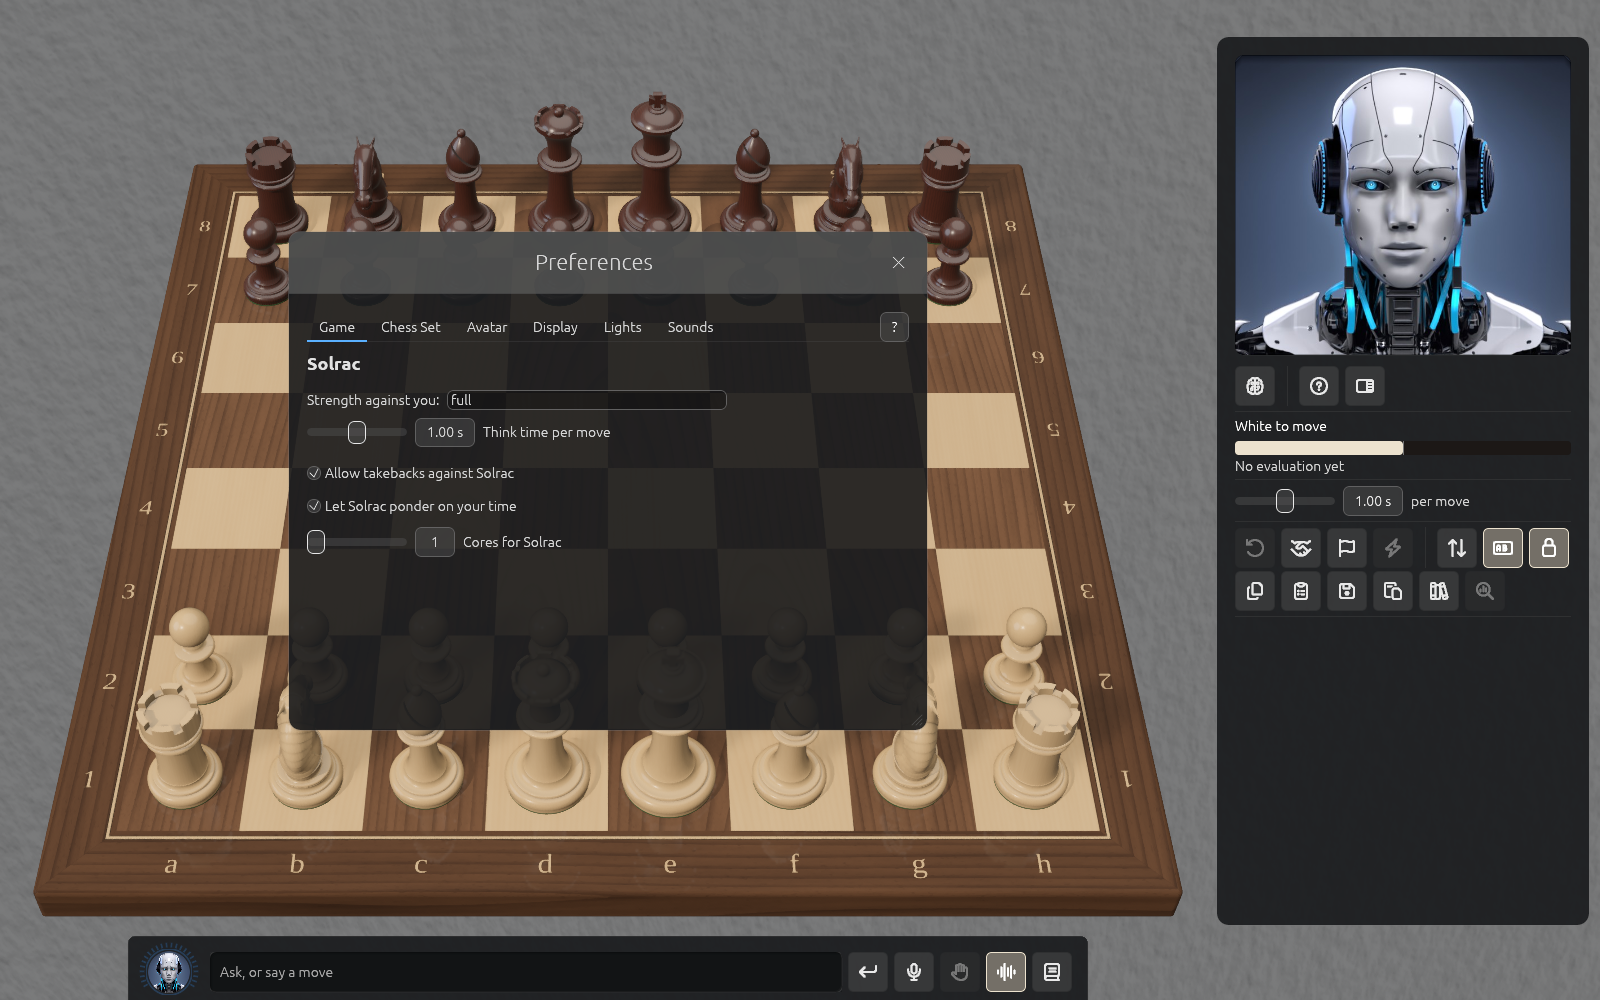
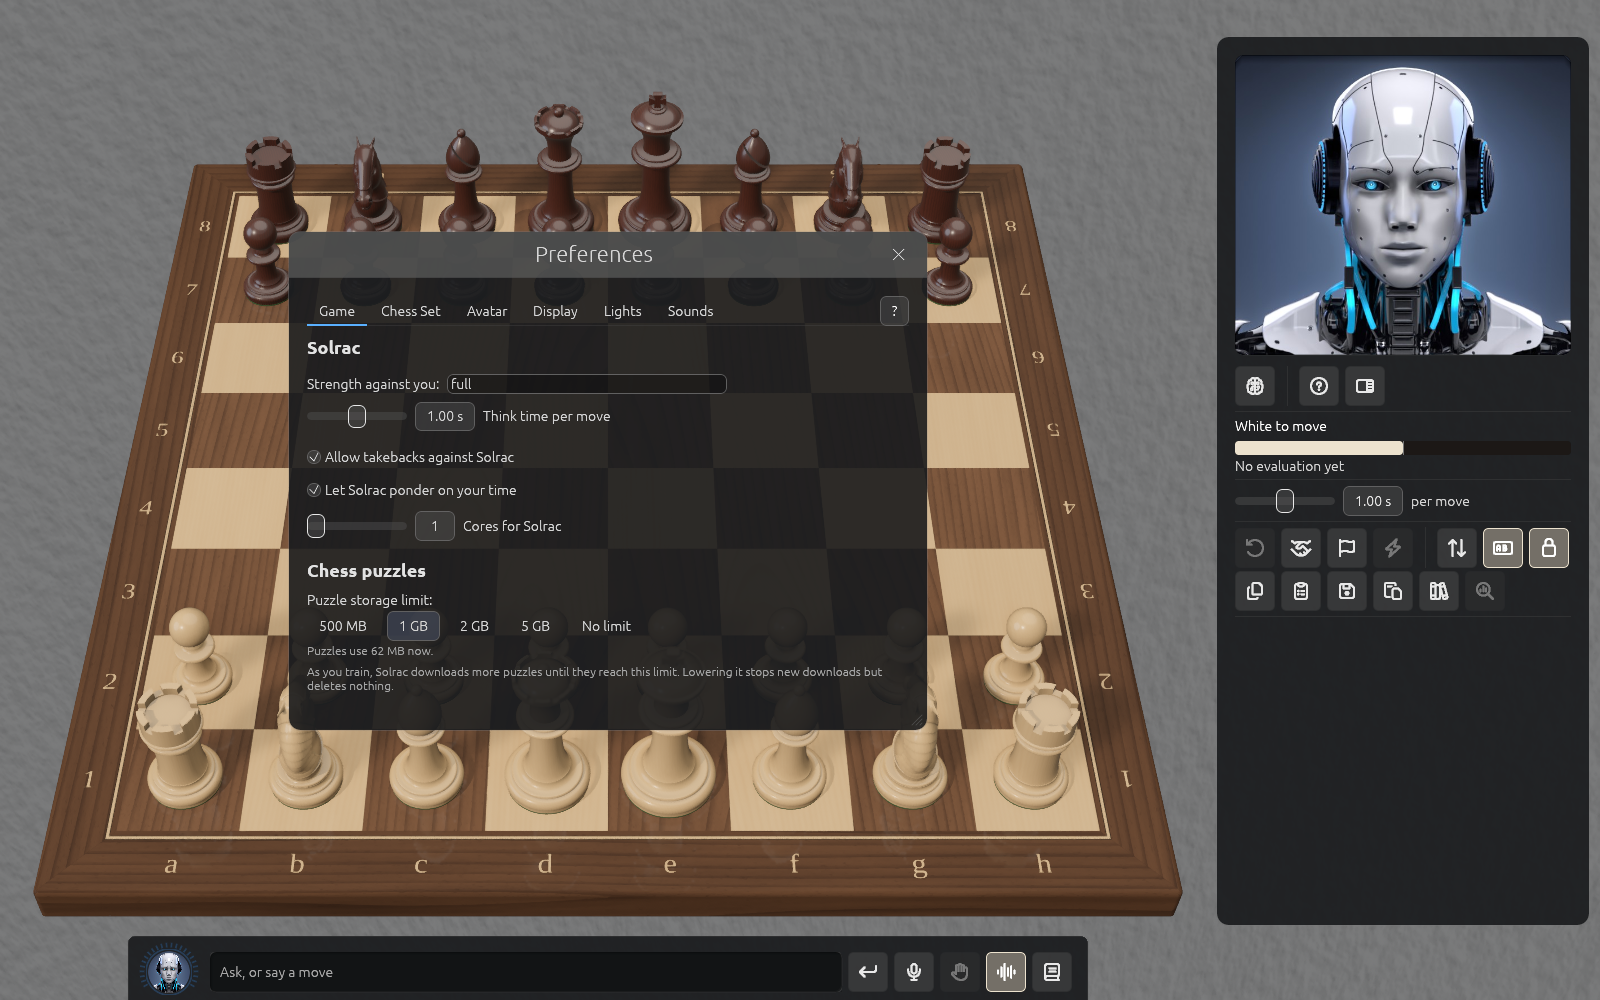
Puzzles: more puzzles as you play, and the puzzle storage limit
Packs of up to 25,000 puzzles arrive in the background when the chosen
theme and difficulty run low, for licence holders, up to the storage limit
chosen in Preferences' Game tab (1 GB to start). Nothing is deleted to make
room. The Game tab's picture is remade with Solrac's renderer.

Changed region(s): [[0.1562, 0.248, 0.5938, 0.682], [0.3438, 0.651, 0.4062, 0.682], [0.5, 0.651, 0.5312, 0.682]]

diff --git a/book/src/puzzles.md b/book/src/puzzles.md
@@ -21,6 +21,24 @@ If an earlier Solrac set up the full puzzle database (6.2 million puzzles, about
 removes it the next time it starts and sets up the starter set in its place, without asking
 again. The window at the lower left says so. Your record of the puzzles you have solved stays.
 
+## More puzzles as you play
+
+With a licence, Solrac adds puzzles while you train. When the theme (or opening) and difficulty
+you picked has fewer than about 200 puzzles you haven't played, Solrac downloads a pack of up to
+25,000 more puzzles at that difficulty in the background, about 1.4 MB, and prepares it in a
+couple of seconds. The picker says "Adding more puzzles rated 1600–1999…" meanwhile, and its
+counts grow once the pack is in. A puzzle you have played counts as played whether you solved it
+or not. One pack comes at a time.
+
+Packs stop at the **puzzle storage limit** you choose in Preferences, on the Game tab: 1 GB to
+start, which is room for the starter set and about 70 packs (see [Preferences](preferences.md)).
+When the limit is reached, or Solrac already has every puzzle it offers at that difficulty, the
+picker says so and offers the nearest difficulty with more puzzles left, and, at the limit,
+**Preferences…** to choose a larger one. Solrac never deletes puzzles to make room, so lowering
+the limit only stops new downloads.
+
+Without a licence, or offline, you train with the starter set.
+
 ## Choosing a puzzle
 
 Choose **Game → Chess Puzzles…** to open the picker over the board.

diff --git a/book/src/preferences.md b/book/src/preferences.md
@@ -35,6 +35,14 @@ that stay the same from game to game:
   everything else. Changing it restarts Solrac's engine, and the game carries on. On a computer
   with one core the slider is greyed out.
 
+Under **Chess puzzles**:
+
+- **Puzzle storage limit**: 500 MB, 1 GB (to start), 2 GB, 5 GB or No limit. As you train, Solrac
+  downloads more puzzles until they take this much disk (see
+  [Chess puzzles](puzzles.md)). The line under it says how much they use now. Lowering the
+  limit stops new downloads but deletes nothing, even when the puzzles already use more than
+  the new limit.
+
 ## Chess Set
 
 ![Preferences, the Chess Set tab](images/preferences-chess-set.png)
